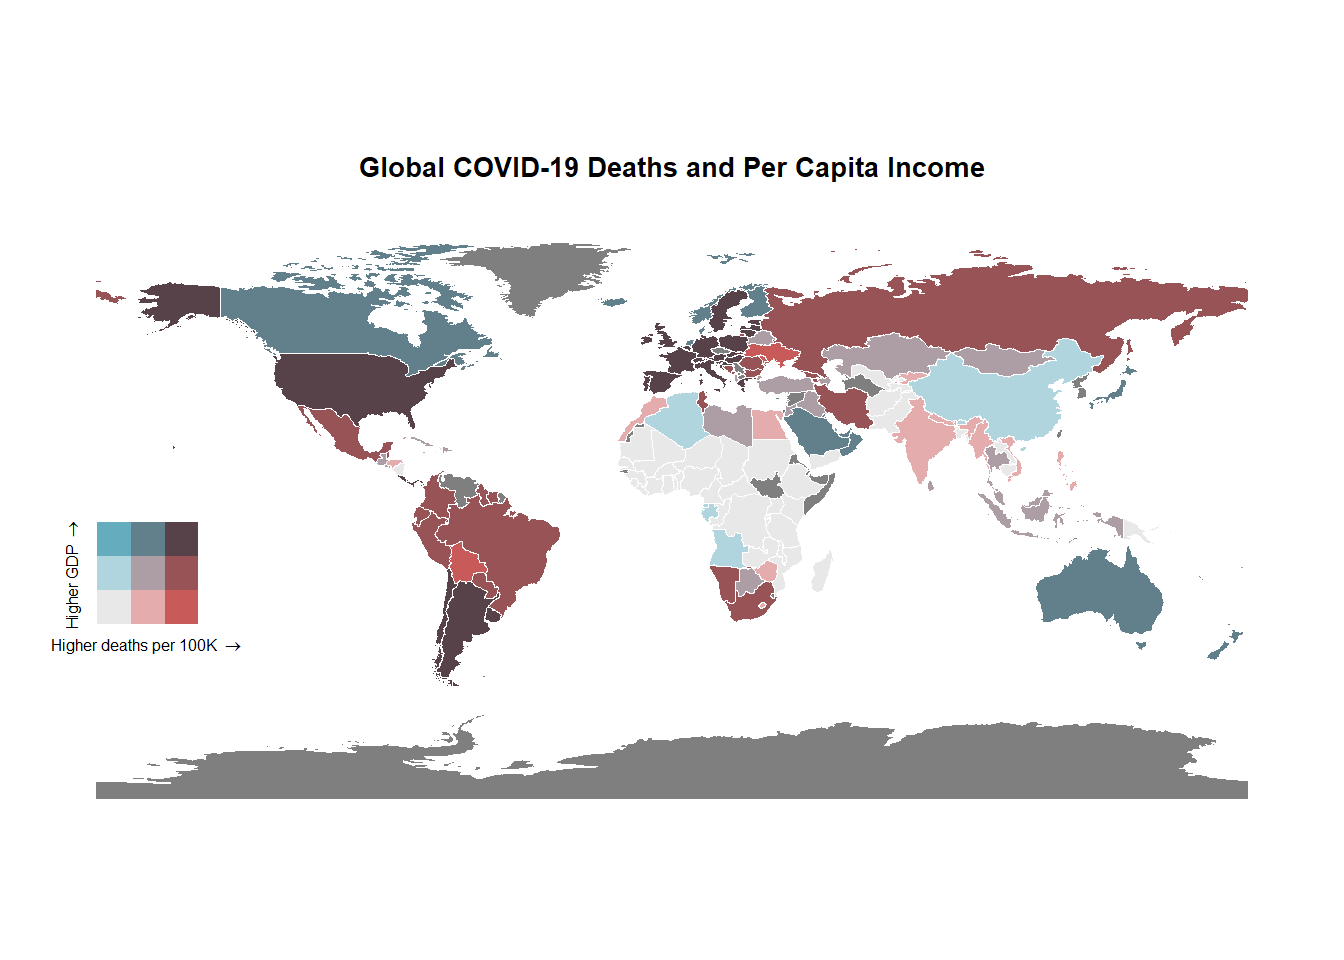
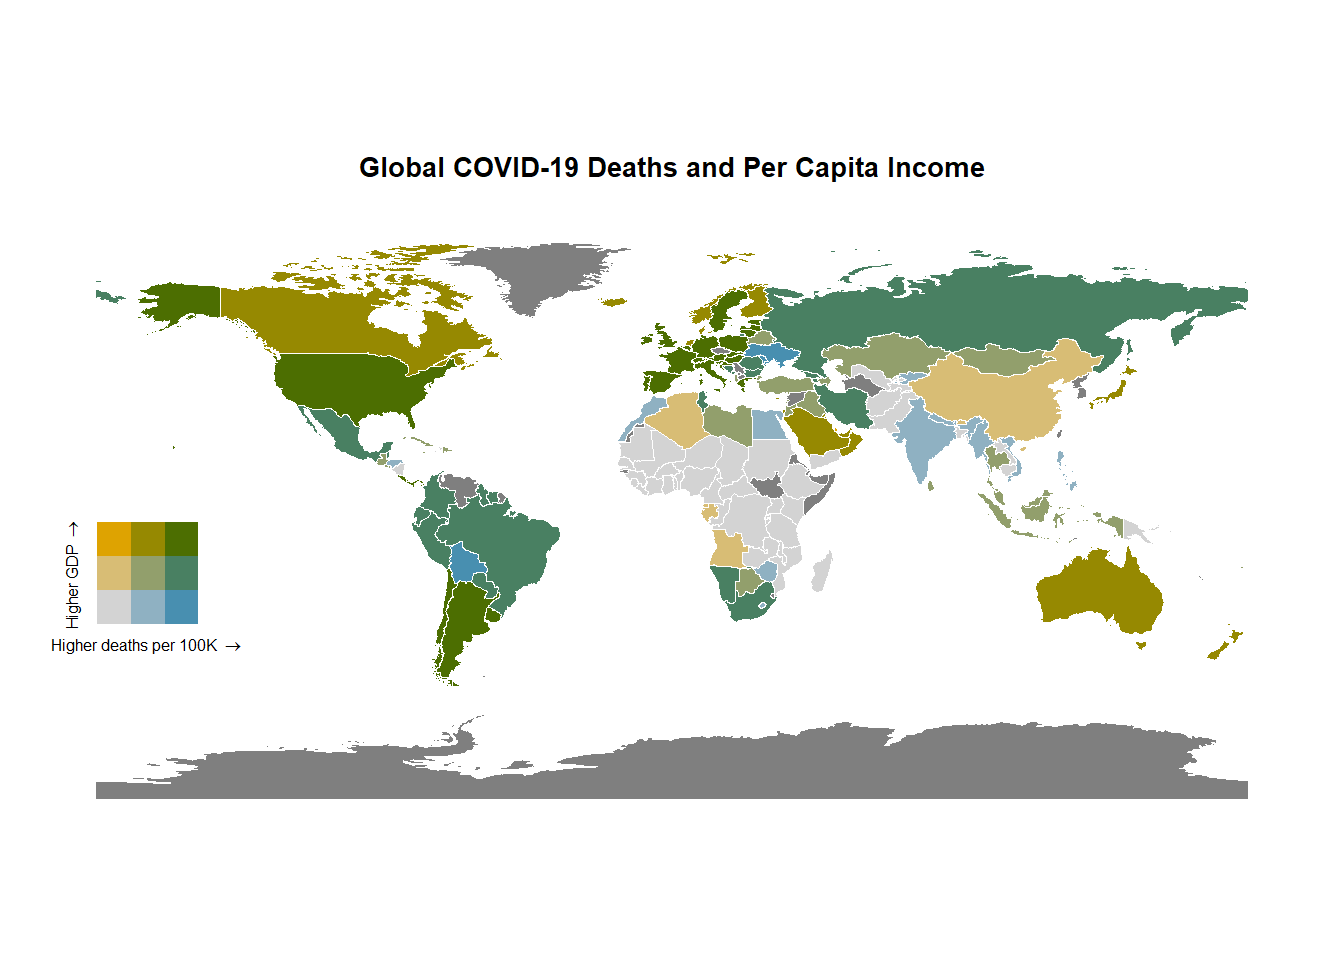
color scheme change

diff --git a/index.html b/index.html
@@ -210,13 +210,13 @@ has missing values, omitted in finding classes</code></pre>
 <div class="sourceCode cell-code" id="cb5"><pre class="sourceCode r code-with-copy"><code class="sourceCode r"><span id="cb5-1"><a href="#cb5-1" aria-hidden="true" tabindex="-1"></a><span class="co">#make map</span></span>
 <span id="cb5-2"><a href="#cb5-2" aria-hidden="true" tabindex="-1"></a>map <span class="ot">&lt;-</span> <span class="fu">ggplot</span>() <span class="sc">+</span></span>
 <span id="cb5-3"><a href="#cb5-3" aria-hidden="true" tabindex="-1"></a>  <span class="fu">geom_sf</span>(<span class="at">data =</span> bidata, <span class="at">mapping =</span> <span class="fu">aes</span>(<span class="at">fill =</span> bi_class), <span class="at">color =</span> <span class="st">"white"</span>, <span class="at">size =</span> <span class="fl">0.1</span>, <span class="at">show.legend =</span> <span class="cn">FALSE</span>) <span class="sc">+</span></span>
-<span id="cb5-4"><a href="#cb5-4" aria-hidden="true" tabindex="-1"></a>  <span class="fu">bi_scale_fill</span>(<span class="at">pal =</span> <span class="st">"GrPink"</span>, <span class="at">dim =</span> <span class="dv">3</span>) <span class="sc">+</span></span>
+<span id="cb5-4"><a href="#cb5-4" aria-hidden="true" tabindex="-1"></a>  <span class="fu">bi_scale_fill</span>(<span class="at">pal =</span> <span class="st">"BlueGold"</span>, <span class="at">dim =</span> <span class="dv">3</span>) <span class="sc">+</span></span>
 <span id="cb5-5"><a href="#cb5-5" aria-hidden="true" tabindex="-1"></a>  <span class="fu">ggtitle</span>(<span class="st">"Global COVID-19 Deaths and Per Capita Income"</span>)<span class="sc">+</span></span>
 <span id="cb5-6"><a href="#cb5-6" aria-hidden="true" tabindex="-1"></a>  <span class="fu">bi_theme</span>()</span>
 <span id="cb5-7"><a href="#cb5-7" aria-hidden="true" tabindex="-1"></a>map <span class="ot">&lt;-</span> map <span class="sc">+</span> <span class="fu">theme</span>(<span class="at">plot.title =</span> <span class="fu">element_text</span>(<span class="at">size =</span> <span class="dv">10</span>))</span>
 <span id="cb5-8"><a href="#cb5-8" aria-hidden="true" tabindex="-1"></a></span>
 <span id="cb5-9"><a href="#cb5-9" aria-hidden="true" tabindex="-1"></a><span class="co"># make legend</span></span>
-<span id="cb5-10"><a href="#cb5-10" aria-hidden="true" tabindex="-1"></a>legend <span class="ot">&lt;-</span> <span class="fu">bi_legend</span>(<span class="at">pal =</span> <span class="st">"GrPink"</span>,</span>
+<span id="cb5-10"><a href="#cb5-10" aria-hidden="true" tabindex="-1"></a>legend <span class="ot">&lt;-</span> <span class="fu">bi_legend</span>(<span class="at">pal =</span> <span class="st">"BlueGold"</span>,</span>
 <span id="cb5-11"><a href="#cb5-11" aria-hidden="true" tabindex="-1"></a>                    <span class="at">dim =</span> <span class="dv">3</span>,</span>
 <span id="cb5-12"><a href="#cb5-12" aria-hidden="true" tabindex="-1"></a>                    <span class="at">xlab =</span> <span class="st">"Higher deaths per 100K "</span>,</span>
 <span id="cb5-13"><a href="#cb5-13" aria-hidden="true" tabindex="-1"></a>                    <span class="at">ylab =</span> <span class="st">"Higher GDP "</span>,</span>
@@ -231,7 +231,9 @@ has missing values, omitted in finding classes</code></pre>
 <p><img src="index_files/figure-html/unnamed-chunk-3-1.png" class="img-fluid" width="672"></p>
 </div>
 </div>
-<p>I made this map as an exercise in data exploration 2017 per capita gdp from ‘worldometer’, https://www.worldometers.info/gdp/gdp-per-capita/ 4 Oct 2022 deaths per 100k from Johns Hopkins Coronavirus Resource Center, https://coronavirus.jhu.edu/data/mortality how I did it: https://cran.r-project.org/web/packages/biscale/vignettes/biscale.html</p>
+<p>I made this map to see what the relationship between per capita income and COVID-19 deaths per 100,000 persons would look like. I expected to generally see a lot of countries with either high GDP and low deaths per 100K, or low income and high deaths per 100K. My assumption was that lower GDP would result in poorer public health infrastructure to prevent disease spread and treat disease once an individual became sick. What I actually saw were more countries than I expected that have low income and low death rates (mostly in Africa), as well as high income countries (the US and Western Europe, especially) with high death rates.</p>
+<p>Designing the map presented some challenges. I initially planned to use two polygon layers of different colors with the ‘alpha’ levels adjusted to give different color combinations based on the combinations of GDP and covid deaths. However, I had trouble setting the polygons to different colors. Using two polygon sets of the same color to get a single combined color ramp didn’t work either because the combinations were almost indistinguishable. I found the biscale package, and borrowed heavily from the code examples at https://cran.r-project.org/web/packages/biscale/vignettes/biscale.html to make my map work. The biscale package has a number of pre-built color combinations, and I experimented with those until I found a color combinaiton (blue-gold) that I thought provided the best contrast between the nine combinaitons. I picked my projection based on</p>
+<p>For a worldwide dataset, the spatial units are countries. The data source for the per capita data was as of 2017, from the ‘worldometer’ website: https://www.worldometers.info/gdp/gdp-per-capita/. The COVID deaths per 100k persons was as of 4 Oct 2022, from the Johns Hopkins Coronavirus Resource Center: https://coronavirus.jhu.edu/data/mortality</p>
 </section>
 
 </main>
